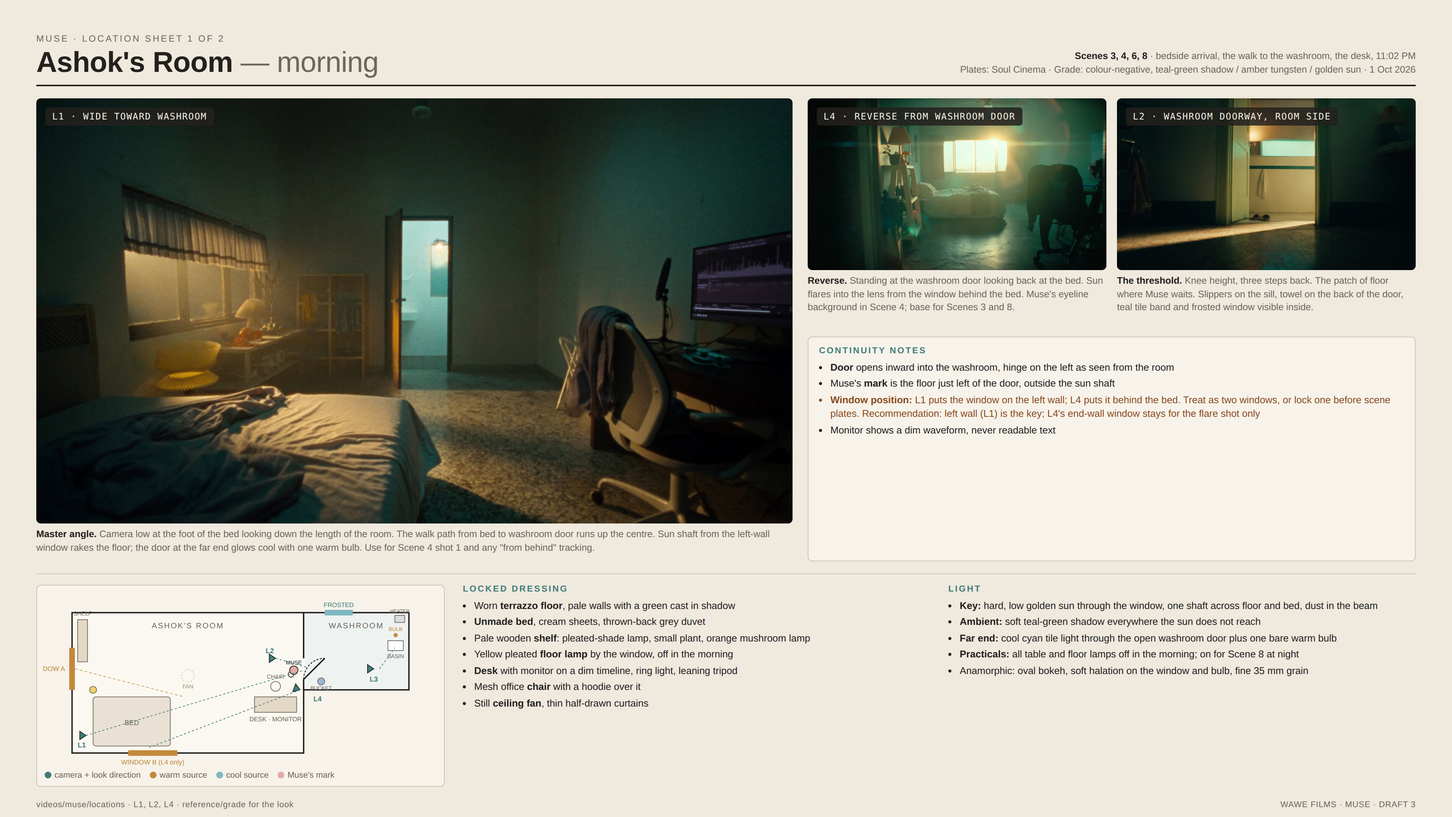
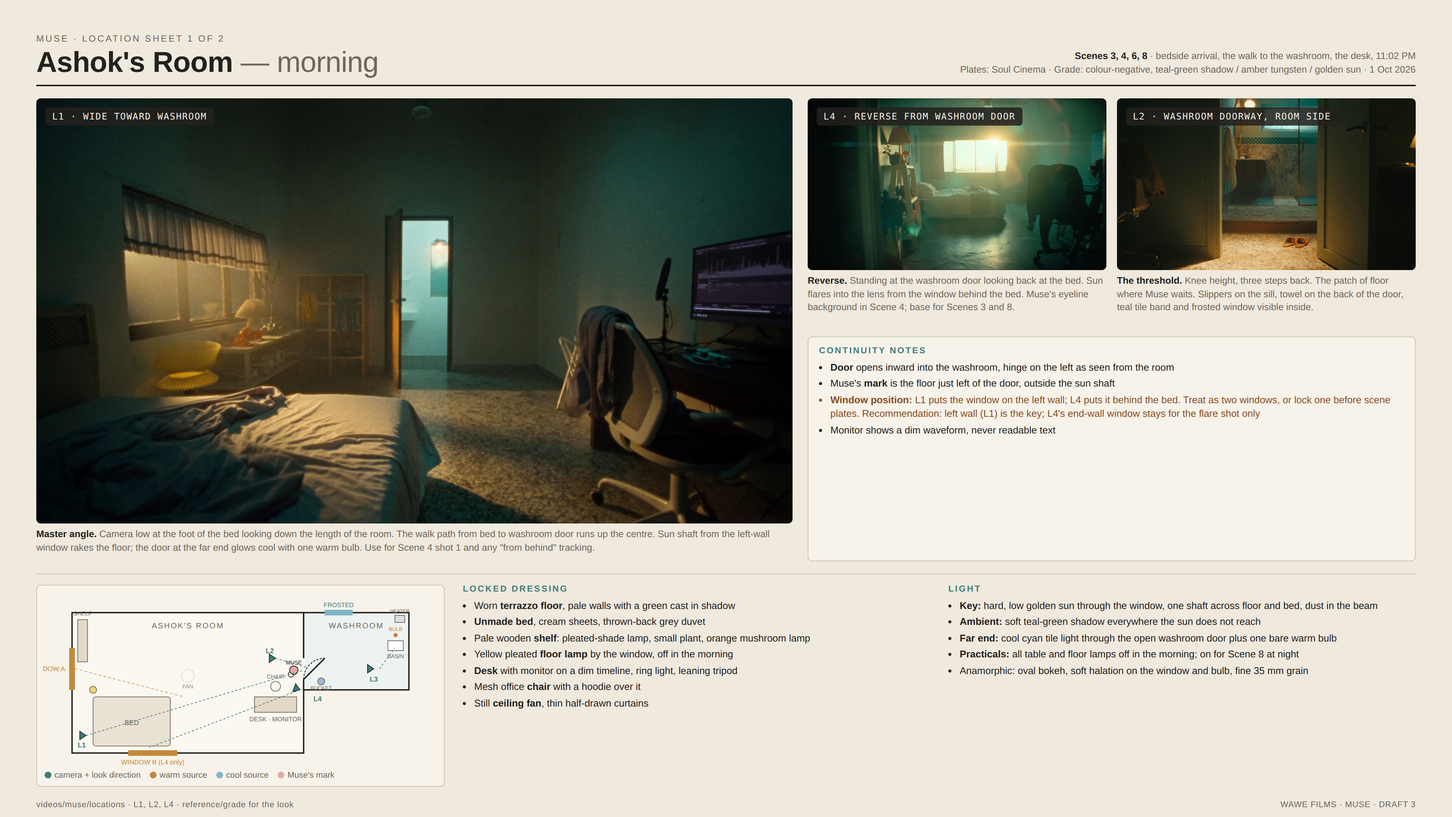
Muse: washroom redesigned to match the room (walnut vanity, brass, zellige, reeded glass), plates, sheets, close-up and prompt updated
Claude-Session: https://claude.ai/code/session_01Sxvpt69HrvMq7m12wGfSYe

Changed region(s): [[0.75, 0.0931, 0.9688, 0.3412], [0.9375, 0.1241, 0.9688, 0.1551]]

diff --git a/videos/muse/locations/sheets/src/sheet.html b/videos/muse/locations/sheets/src/sheet.html
@@ -199,27 +199,27 @@
     </div>
     <div class="meta">
       <b>Scene 4</b> · brushing, the doorway, "Already did."<br>
-      Plates: Soul Cinema · Character beat: Soul 2.0 · Grade: colour-negative, cyan window / amber bulb · 1 Oct 2026
+      Plates: Soul Cinema · Character beat: Soul 2.0 · Grade: colour-negative, cyan window / amber globe sconce · 1 Oct 2026
     </div>
   </header>
 
   <div class="grid">
     <div class="hero">
       <img src="img/L3-washroom-interior-sink-mirror.jpg" alt="">
-      <div class="tag">L3 · INTERIOR, BASIN AND MIRROR</div>
-      <div class="cap"><b>Master angle.</b> Camera just inside the door at chest height, square to the basin wall. One bare warm bulb above the mirror against flat cyan daylight from the frosted window top-left. Teal tile band at waist height, water heater top-right, bucket bottom-right, toothbrush cup on the ledge. Ashok's "exposure doesn't pay rent" close-up lives here.</div>
+      <div class="tag">L3 · INTERIOR, VANITY AND MIRROR</div>
+      <div class="cap"><b>Master angle.</b> Camera just inside the door at chest height, square to the vanity wall. One warm globe sconce above the mirror against flat cyan daylight from the frosted window top-left. Round brass mirror, opal globe sconce, floating walnut vanity with vessel basin and brass tap, glossy teal zellige band, reeded partition right.</div>
     </div>
     <div class="side">
       <div class="thumbs">
       <div class="thumb">
         <img src="img/A3.jpg" alt="">
         <div class="tag">A3 · DOORWAY BEAT, AS LIT</div>
-        <div class="cap"><b>Lighting proof with the character.</b> Ashok leaning out of the door: warm sun on the room side of his face, cool tile behind, the bulb catching his hair. This is the balance to hold for every washroom shot with a person in it.</div>
+        <div class="cap"><b>Lighting proof with the character.</b> Ashok leaning out of the door: warm sun on the room side of his face, cool stone behind, the sconce catching his hair. This is the balance to hold for every washroom shot with a person in it.</div>
       </div>
       <div class="thumb">
         <img src="img/L2-washroom-doorway-from-room.jpg" alt="">
         <div class="tag">L2 · THRESHOLD FROM THE ROOM</div>
-        <div class="cap"><b>Entrance.</b> Same door, same bulb, same frosted window, seen low from Muse's height. Slippers on the sill and a towel on the back of the door tie the two spaces together.</div>
+        <div class="cap"><b>Entrance.</b> Same door, same sconce, same frosted window, seen low from Muse's height. The terrazzo runs through the doorway without a break, which is what makes the two rooms one apartment.</div>
       </div>
       </div>
       <div class="block">
@@ -227,7 +227,7 @@
       <ul>
         <li>Door hinge is on the left from the room, so Ashok <b>leans out to his right</b>, toward Muse's mark</li>
         <li>Muse never enters the washroom; her close-ups are shot from the room side at beret height</li>
-        <li>Mirror reflects the opposite tile wall and window only, no camera</li>
+        <li>Mirror reflects the opposite stone wall and window only, no camera</li>
         <li class="warn">Scale: the room is small. A 90 cm Muse on the threshold fills the lower third of a knee-high frame; keep her out of L3's frame entirely</li>
       </ul>
       </div>
@@ -238,7 +238,7 @@
     <div class="plan">
       <svg viewBox="0 0 560 250" xmlns="http://www.w3.org/2000/svg" font-family="Helvetica Neue, Arial, sans-serif">
         <rect x="150" y="30" width="260" height="190" fill="#eef3f2" stroke="#23211d" stroke-width="2"/>
-        <text x="280" y="55" font-size="11" text-anchor="middle" fill="#6f665b" letter-spacing="1.5">WASHROOM · ~1.8 × 2.4 m</text>
+        <text x="230" y="55" font-size="11" text-anchor="middle" fill="#6f665b" letter-spacing="1.5">WASHROOM</text>
         <!-- door on left wall (to room) -->
         <line x1="150" y1="130" x2="150" y2="180" stroke="#eef3f2" stroke-width="3"/>
         <path d="M150 180 A50 50 0 0 1 200 130" fill="none" stroke="#23211d" stroke-width="1.2" stroke-dasharray="3 2"/>
@@ -247,24 +247,26 @@
         <!-- frosted window top wall left -->
         <rect x="180" y="26" width="60" height="8" fill="#7fb7c4"/>
         <text x="210" y="22" font-size="9" text-anchor="middle" fill="#3f7c78">FROSTED WINDOW · cyan</text>
-        <!-- basin + mirror on far (right) wall -->
-        <rect x="396" y="110" width="12" height="36" fill="#fff" stroke="#6f665b"/>
-        <text x="420" y="132" font-size="9" fill="#6f665b">BASIN</text>
-        <rect x="406" y="104" width="4" height="48" fill="#9fb3b0"/>
-        <text x="420" y="118" font-size="8" fill="#6f665b">MIRROR</text>
+        <!-- vanity + mirror on far (right) wall -->
+        <rect x="392" y="104" width="16" height="48" fill="#8b5a2b" stroke="#6f665b"/>
+        <text x="420" y="132" font-size="9" fill="#6f665b">WALNUT VANITY</text>
+        <ellipse cx="400" cy="128" rx="5" ry="9" fill="#fff" stroke="#6f665b"/>
         <circle cx="402" cy="96" r="4" fill="#c2893a"/>
-        <text x="420" y="100" font-size="8.5" fill="#c2893a">BULB above mirror</text>
-        <!-- heater -->
-        <rect x="388" y="36" width="18" height="14" fill="#ddd" stroke="#6f665b"/>
-        <text x="420" y="47" font-size="8.5" fill="#6f665b">WATER HEATER · red LED</text>
-        <!-- bucket -->
-        <circle cx="385" cy="195" r="9" fill="#9bb6d8" stroke="#6f665b"/>
-        <text x="385" y="214" font-size="8.5" text-anchor="middle" fill="#6f665b">BUCKET + MUG</text>
+        <text x="420" y="100" font-size="8.5" fill="#c2893a">GLOBE SCONCE over round mirror</text>
+        <!-- reeded partition along top wall right -->
+        <line x1="300" y1="34" x2="300" y2="110" stroke="#9fb3b0" stroke-width="3" stroke-dasharray="2 2"/>
+        <text x="306" y="60" font-size="8.5" fill="#6f665b">REEDED GLASS</text>
+        <text x="306" y="71" font-size="8.5" fill="#6f665b">PARTITION, brass frame</text>
+        <rect x="310" y="36" width="96" height="60" fill="#e4eeee" stroke="none" opacity=".6"/>
+        <text x="358" y="88" font-size="8" text-anchor="middle" fill="#9a9084">BATHING AREA (hidden)</text>
+        <!-- teak stool -->
+        <rect x="372" y="178" width="22" height="14" fill="#c9a37a" stroke="#6f665b"/>
+        <text x="383" y="206" font-size="8.5" text-anchor="middle" fill="#6f665b">TEAK STOOL · towels</text>
         <!-- towel hook -->
         <rect x="164" y="60" width="4" height="22" fill="#e9e1d3" stroke="#6f665b"/>
         <text x="172" y="70" font-size="8" fill="#6f665b">TOWEL HOOK</text>
         <!-- tile band note -->
-        <text x="280" y="236" font-size="9" text-anchor="middle" fill="#3f7c78">TEAL TILE BAND AT WAIST HEIGHT ON ALL FOUR WALLS</text>
+        <text x="280" y="236" font-size="9" text-anchor="middle" fill="#3f7c78">TRAVERTINE WALLS · GLOSSY TEAL ZELLIGE BAND AT WAIST HEIGHT · TERRAZZO FLOOR CONTINUES FROM THE ROOM</text>
         <!-- slippers outside -->
         <rect x="126" y="186" width="14" height="8" rx="2" fill="#c9a37a" stroke="#6f665b"/>
         <text x="110" y="205" font-size="8" fill="#6f665b">SLIPPERS</text>
@@ -290,12 +292,13 @@
     <div class="block">
       <h3>Locked dressing</h3>
       <ul>
-        <li>Off-white glazed <b>tiles</b>, slightly uneven, one <b>teal-green band</b> at waist height</li>
-        <li>White ceramic <b>basin</b> on a tiled ledge, steel tap, small square <b>mirror</b></li>
-        <li>Plastic <b>cup</b> with two toothbrushes and paste on the ledge</li>
-        <li>Wall-mounted <b>water heater</b>, red indicator on, top-right corner</li>
-        <li>Blue plastic <b>bucket</b> and mug on the floor, right</li>
-        <li>Towel on a hook behind the door, rubber <b>slippers</b> on the sill outside</li>
+        <li>Same worn <b>terrazzo floor</b> as the room, running through the door</li>
+        <li>Warm travertine-toned <b>stone walls</b>, one glossy teal-green <b>zellige band</b> at waist height</li>
+        <li>Floating <b>walnut vanity</b>, white oval vessel basin, wall-mounted brushed <b>brass tap</b></li>
+        <li>Round <b>brass mirror</b> with one opal <b>globe sconce</b> directly above</li>
+        <li>Ceramic cup with two toothbrushes and paste, small potted plant on the vanity</li>
+        <li>Floor-to-ceiling <b>reeded glass partition</b>, slim brass frame, hides the bathing area</li>
+        <li>Teak slatted <b>stool</b> with folded cream towels, cream towel on a brass hook, tan leather <b>slippers</b> on the sill</li>
         <li>Ashok's brush: white body, sky-blue grip, pale blue bristles</li>
       </ul>
     </div>
@@ -303,15 +306,15 @@
     <div class="block">
       <h3>Light</h3>
       <ul>
-        <li><b>Key:</b> one bare warm tungsten bulb above the mirror, amber, soft halation</li>
-        <li><b>Fill:</b> flat cyan daylight through the frosted window, top-left</li>
-        <li><b>From the room:</b> golden sun spills across the threshold and the door edge; it never reaches the basin</li>
-        <li>Faces at the mirror split warm (bulb side) against cool (window side)</li>
-        <li>Floor holds a thin sheen; no steam, early and quiet</li>
+        <li><b>Key:</b> one warm opal globe sconce above the mirror, amber, soft halation</li>
+        <li><b>Fill:</b> flat cyan daylight through the frosted reeded window, top-left</li>
+        <li><b>From the room:</b> golden sun spills across the threshold and the door edge; it never reaches the vanity</li>
+        <li>Faces at the mirror split warm (sconce side) against cool (window side)</li>
+        <li>Stone and brass hold soft highlights, never specular; early, quiet, no steam</li>
       </ul>
     </div>
   </div>
-  <footer><span>videos/muse/locations · L2, L3 · character-sheets/ashok/A3 for the lit beat</span><span>WAWE FILMS · MUSE · DRAFT 3</span></footer>
+  <footer><span>videos/muse/locations · L2, L3 (vanity) · character-sheets/ashok/A3 for the lit beat</span><span>WAWE FILMS · MUSE · DRAFT 3</span></footer>
 </section>
 
 </body>

diff --git a/videos/muse/scenes/04-washroom/seedance-prompt.md b/videos/muse/scenes/04-washroom/seedance-prompt.md
@@ -15,7 +15,7 @@ Written with the Seedance 2.0 prompt grammar (the @ reference system). Seedance 
 | @Image5 | `character-sheets/S4-scale.png` | Scale lock: top of Muse's beret at Ashok's belt line |
 | @Image6 | `locations/L1-room-wide-toward-washroom.png` | Scene for shot 1, bed to washroom door |
 | @Image7 | `locations/L2-washroom-doorway-from-room.png` | Scene for the Muse close-ups beside the door |
-| @Image8 | `locations/L3-washroom-interior-sink-mirror.png` | Scene for Ashok's close-up at the mirror |
+| @Image8 | `locations/L3-washroom-interior-vanity-mirror.png` | Scene for Ashok's close-up at the vanity mirror |
 | @Audio1 | optional, Muse's four lines rendered in the chosen ElevenLabs voice | Voice and timing reference |
 | @Audio2 | optional, 5–10 s of Ashok's real voice | Voice reference for his one line |
 
@@ -28,14 +28,14 @@ Settings: 15 s, 16:9 (or 2.39:1 if offered), highest resolution available.
 ```
 Live-action short film, one continuous scene cut into five shots, 15 seconds. @Image1 is Ashok: a lean young South Indian man with messy bedhead black hair and a thin moustache, in a slept-in olive-grey t-shirt, navy check pyjama trousers, bare feet, a cream face towel over his left shoulder, a blue toothbrush in his hand. @Image3 is Muse: a cream plush creature with a peach face, two black dot eyes, pink cheeks, a blush-pink beret, round gold spectacles, a teal ribbon bow at the neck, a lanyard with a blank white card, a slim black tablet under one stub arm. Muse's expressions reference @Image4. Scale references @Image5: the top of Muse's beret reaches Ashok's belt, she is a real physical object in the room, her fur catches the same light he does, her feet touch the floor and cast a contact shadow. Ashok never looks at camera. Muse walks with a quick short-stepped waddle, her whole body rocking slightly, the ribbon tails and the lanyard swinging.
 
-0–4s, WIDE FROM BEHIND, scene references @Image6: the camera is low, at Muse's beret height, at the foot of the unmade bed, tracking forward slowly behind the two of them as Ashok shuffles barefoot from the bed toward the half-open washroom door at the far end of the room, scratching the back of his head, and Muse hurries along a step behind him and to his left, tablet under her arm, talking up at him without pause. A hard shaft of golden morning sun from the window camera-left rakes across the floor, dust in the beam, the rest of the room in soft teal-green shadow, the washroom door ahead glowing with cool white tile light and one warm bulb.
+0–4s, WIDE FROM BEHIND, scene references @Image6: the camera is low, at Muse's beret height, at the foot of the unmade bed, tracking forward slowly behind the two of them as Ashok shuffles barefoot from the bed toward the half-open washroom door at the far end of the room, scratching the back of his head, and Muse hurries along a step behind him and to his left, tablet under her arm, talking up at him without pause. A hard shaft of golden morning sun from the window camera-left rakes across the floor, dust in the beam, the rest of the room in soft teal-green shadow, the washroom door ahead glowing with cool cyan light and one warm globe sconce.
 Muse (bright, quick, cheerful, a friend reading out good news while walking, no pause for breath): "Last night's reel was the best one this month. I handled forty emails, three need your reply."
 Ashok disappears through the door. Muse stops on the threshold.
 
-4–8s, CLOSE UP ON MUSE, scene references @Image7: the camera is at Muse's eye level, just inside the bedroom beside the door frame, framing her head and shoulders with the warm sunlit door frame on one side and the cool tiled washroom glow behind her. She stands exactly where she stopped, looking up and sideways into the washroom at Ashok off-screen, the tablet now held in front of her with both stub arms as if reading from it, spectacles catching a small warm glint. From inside the washroom, the sound of a tap running and a toothbrush starting.
+4–8s, CLOSE UP ON MUSE, scene references @Image7: the camera is at Muse's eye level, just inside the bedroom beside the door frame, framing her head and shoulders with the warm sunlit door frame on one side and the cool stone-and-teal washroom glow behind her. She stands exactly where she stopped, looking up and sideways into the washroom at Ashok off-screen, the tablet now held in front of her with both stub arms as if reading from it, spectacles catching a small warm glint. From inside the washroom, the sound of a tap running and a toothbrush starting.
 Muse (same bright pace, perfectly organised, a little proud): "Only three of the eleven things on last night's to-do list matter. The rest, I can handle. One brand wants you for exposure."
 
-8–10s, CLOSE UP ON ASHOK, scene references @Image8: the camera is inside the washroom at the mirror's height, a tight close-up of Ashok's face in profile-to-three-quarter as he brushes his teeth at the basin, the bare warm bulb above the mirror lighting one side of his face amber, the frosted window throwing flat cyan light on the other side, toothpaste foam at the corner of his mouth. He speaks around the toothbrush without stopping brushing, dry and flat.
+8–10s, CLOSE UP ON ASHOK, scene references @Image8: the camera is inside the washroom at the mirror's height, a tight close-up of Ashok's face in profile-to-three-quarter as he brushes his teeth at the walnut vanity, the warm opal globe sconce above the round brass mirror lighting one side of his face amber, the frosted reeded window throwing flat cyan light on the other side, the glossy teal zellige band behind him, toothpaste foam at the corner of his mouth. He speaks around the toothbrush without stopping brushing, dry and flat.
 Ashok (muffled by the toothbrush, deadpan): "Tell them exposure doesn't pay rent."
 
 10–12s, CLOSE UP ON MUSE, same framing and position as 4–8s: she does not look up from the tablet. One beat of silence, then, without any change in her face:
@@ -43,9 +43,9 @@ Muse (instant, flat, no emphasis, the smallest shrug of her stub arms): "Already
 
 12–15s, MEDIUM CLOSE UP ON ASHOK, framing and expression reference @Image2: the camera is back in the bedroom at Ashok's eye level, looking at the washroom doorway. The toothbrush sound stops. Ashok leans sideways out of the doorway, one hand on the frame, toothbrush clamped in the corner of his mouth, foam on his lip, towel still over his shoulder, and stares down at Muse just below the bottom of frame with slow widening disbelief, brow lifting, then a single small blink. Hold on his face. Muse stays out of this shot except the very top of her blush beret entering the bottom edge of frame on the last beat.
 
-Camera: slow, controlled, no handheld shake, no zooms, straight cuts between the five shots, the first shot a smooth low tracking move, the rest locked off. Lens look: vintage anamorphic, shallow depth of field, oval bokeh on the bulb and window, soft frame edges, light halation on the bulb and the sunlit window.
+Camera: slow, controlled, no handheld shake, no zooms, straight cuts between the five shots, the first shot a smooth low tracking move, the rest locked off. Lens look: vintage anamorphic, shallow depth of field, oval bokeh on the sconce and window, soft frame edges, light halation on the sconce and the sunlit window.
 
-Audio: all diegetic. Bare feet on terrazzo, Muse's small quick footsteps, the ribbon and lanyard rustling, the tap running, the toothbrush scrubbing, the sound dropping when he stops brushing in the last shot. Room tone of a quiet Indian apartment morning, a distant crow, a far-off scooter horn once. No music. Muse's voice: a light, airy, bubbly young-woman voice with a neutral Indian-English accent, quick and friendly, like a best friend who happens to remember everything, never a customer-service assistant. If @Audio1 is provided, Muse's voice, pitch and timing reference @Audio1. Ashok's voice is low, sleepy and muffled by the toothbrush. If @Audio2 is provided, Ashok's voice references @Audio2.
+Audio: all diegetic. Bare feet on terrazzo, the same floor running into the washroom, Muse's small quick footsteps, the ribbon and lanyard rustling, the tap running, the toothbrush scrubbing, the sound dropping when he stops brushing in the last shot. Room tone of a quiet Indian apartment morning, a distant crow, a far-off scooter horn once. No music. Muse's voice: a light, airy, bubbly young-woman voice with a neutral Indian-English accent, quick and friendly, like a best friend who happens to remember everything, never a customer-service assistant. If @Audio1 is provided, Muse's voice, pitch and timing reference @Audio1. Ashok's voice is low, sleepy and muffled by the toothbrush. If @Audio2 is provided, Ashok's voice references @Audio2.
 
 Color and light: a colour-negative film look with teal-green shadows and cyan window daylight against warm amber tungsten and low golden morning sun, warm skin tones preserved, blacks lifted and open, highlights rolling off softly, fine 35mm grain across every shot, muted greens, ochres and creams in the room. Photorealistic, cinematic, consistent character identity for Ashok across every shot, consistent plush Muse across every shot, no text, no captions, no subtitles, no watermark.
 ```
@@ -59,14 +59,14 @@ Use this if the single 15 s clip rushes the dialogue or drifts on identity. Each
 ```
 Live-action short film, two shots, 8 seconds. @Image1 is Ashok: a lean young South Indian man with messy bedhead black hair and a thin moustache, slept-in olive-grey t-shirt, navy check pyjama trousers, bare feet, a cream face towel over his left shoulder, a blue toothbrush in his hand. @Image3 is Muse: a cream plush creature with a peach face, two black dot eyes, pink cheeks, a blush-pink beret, round gold spectacles, a teal ribbon bow, a lanyard with a blank white card, a slim black tablet under one stub arm. Expressions reference @Image4. Scale references @Image5: the top of Muse's beret reaches Ashok's belt, her feet on the floor with a real contact shadow, her fur lit by the same light as him. Muse walks with a quick short-stepped waddle, her body rocking, ribbon and lanyard swinging.
 
-0–4s, WIDE FROM BEHIND, scene references @Image6: low camera at Muse's beret height at the foot of the unmade bed, tracking forward slowly behind both of them as Ashok shuffles barefoot toward the half-open washroom door at the far end, scratching the back of his head, Muse hurrying a step behind and to his left, talking up at him. A hard shaft of golden morning sun from the window camera-left rakes the floor, dust in the beam, the room in soft teal-green shadow, the washroom door glowing with cool tile light and one warm bulb.
+0–4s, WIDE FROM BEHIND, scene references @Image6: low camera at Muse's beret height at the foot of the unmade bed, tracking forward slowly behind both of them as Ashok shuffles barefoot toward the half-open washroom door at the far end, scratching the back of his head, Muse hurrying a step behind and to his left, talking up at him. A hard shaft of golden morning sun from the window camera-left rakes the floor, dust in the beam, the room in soft teal-green shadow, the washroom door glowing with cool cyan light and one warm globe sconce.
 Muse (bright, quick, cheerful, no pause for breath): "Last night's reel was the best one this month. I handled forty emails, three need your reply."
 Ashok goes through the door. Muse stops on the threshold.
 
-4–8s, CLOSE UP ON MUSE, scene references @Image7: camera at Muse's eye level beside the door frame, head and shoulders, warm sunlit door frame on one side, cool tiled washroom glow behind her. She looks up and sideways into the washroom at Ashok off-screen, tablet held in front of her with both stub arms, a small warm glint on her spectacles. From inside, a tap runs and a toothbrush starts.
+4–8s, CLOSE UP ON MUSE, scene references @Image7: camera at Muse's eye level beside the door frame, head and shoulders, warm sunlit door frame on one side, cool stone-and-teal washroom glow behind her. She looks up and sideways into the washroom at Ashok off-screen, tablet held in front of her with both stub arms, a small warm glint on her spectacles. From inside, a tap runs and a toothbrush starts.
 Muse (same bright pace, organised, a little proud): "Only three of the eleven things on last night's to-do list matter. The rest, I can handle. One brand wants you for exposure."
 
-Camera: smooth low tracking move in the first shot, locked off in the second, straight cut, no zooms, vintage anamorphic look, shallow depth of field, oval bokeh, soft halation on the bulb and window. Audio: all diegetic, bare feet on terrazzo, Muse's small quick steps, ribbon rustle, the tap and toothbrush from inside, quiet Indian apartment morning room tone, a distant crow, no music. Muse's voice: light, airy, bubbly young-woman voice, neutral Indian-English, quick and friendly, a best friend who remembers everything, never an assistant voice. If @Audio1 is provided, Muse's voice and timing reference @Audio1. Colour-negative film look, teal-green shadows and cyan window light against warm amber tungsten and golden sun, warm skin preserved, lifted blacks, soft highlight roll-off, fine 35mm grain. Photorealistic, consistent identities, no text, no captions, no watermark.
+Camera: smooth low tracking move in the first shot, locked off in the second, straight cut, no zooms, vintage anamorphic look, shallow depth of field, oval bokeh, soft halation on the sconce and window. Audio: all diegetic, bare feet on terrazzo, Muse's small quick steps, ribbon rustle, the tap and toothbrush from inside, quiet Indian apartment morning room tone, a distant crow, no music. Muse's voice: light, airy, bubbly young-woman voice, neutral Indian-English, quick and friendly, a best friend who remembers everything, never an assistant voice. If @Audio1 is provided, Muse's voice and timing reference @Audio1. Colour-negative film look, teal-green shadows and cyan window light against warm amber tungsten and golden sun, warm skin preserved, lifted blacks, soft highlight roll-off, fine 35mm grain. Photorealistic, consistent identities, no text, no captions, no watermark.
 ```
 
 ### Clip B2, 7 s (shots 3, 4 and 5)
@@ -74,7 +74,7 @@ Camera: smooth low tracking move in the first shot, locked off in the second, st
 ```
 Live-action short film, three shots, 7 seconds. @Image1 and @Image2 are Ashok: a lean young South Indian man with messy bedhead black hair and a thin moustache, slept-in olive-grey t-shirt, cream face towel over his left shoulder, a blue toothbrush. @Image3 is Muse: a cream plush creature with a peach face, two black dot eyes, pink cheeks, a blush-pink beret, round gold spectacles, a teal ribbon bow, a lanyard with a blank white card, a slim black tablet. Expressions reference @Image4. Scale references @Image5.
 
-0–2s, CLOSE UP ON ASHOK, scene references @Image8: inside the washroom at mirror height, tight close-up of Ashok brushing his teeth at the basin in three-quarter profile, the bare warm bulb above the mirror lighting one side of his face amber, the frosted window throwing flat cyan light on the other, foam at the corner of his mouth. He speaks around the toothbrush without stopping brushing.
+0–2s, CLOSE UP ON ASHOK, scene references @Image8: inside the washroom at mirror height, tight close-up of Ashok brushing his teeth at the walnut vanity in three-quarter profile, the warm opal globe sconce above the round brass mirror lighting one side of his face amber, the frosted reeded window throwing flat cyan light on the other, the glossy teal zellige band behind him, foam at the corner of his mouth. He speaks around the toothbrush without stopping brushing.
 Ashok (muffled, deadpan): "Tell them exposure doesn't pay rent."
 
 2–4s, CLOSE UP ON MUSE, scene references @Image7: camera at Muse's eye level beside the bedroom side of the door frame, head and shoulders, she stands on the threshold reading from the tablet held in both stub arms and does not look up. One beat of silence, then with no change in her face:
@@ -82,7 +82,7 @@ Muse (instant, flat, no emphasis, the smallest shrug of her stub arms): "Already
 
 4–7s, MEDIUM CLOSE UP ON ASHOK, framing and expression reference @Image2: camera in the bedroom at Ashok's eye level looking at the washroom doorway. The toothbrush sound stops. Ashok leans sideways out of the doorway, one hand on the frame, toothbrush clamped in the corner of his mouth, foam on his lip, towel on his shoulder, and stares down at Muse just below the bottom of frame with slow widening disbelief, brow lifting, one small blink. Hold. Only the top of Muse's blush beret enters the bottom edge of frame on the last beat.
 
-Camera: all three shots locked off, straight cuts, no zooms, vintage anamorphic look, shallow depth of field, oval bokeh, soft halation on the bulb and window. Audio: all diegetic, the toothbrush scrubbing and tap, then silence when he stops, quiet apartment room tone, no music. Muse's voice: light, airy, bubbly young-woman voice, neutral Indian-English, the "Already did." delivered flat and fast like a shrug. If @Audio1 is provided, Muse's voice references @Audio1. Ashok's voice low, sleepy, muffled by the toothbrush; if @Audio2 is provided, reference @Audio2. Colour-negative film look, teal-green shadows and cyan window light against warm amber tungsten and golden sun, warm skin preserved, lifted blacks, soft highlight roll-off, fine 35mm grain. Photorealistic, consistent identities, no text, no captions, no watermark.
+Camera: all three shots locked off, straight cuts, no zooms, vintage anamorphic look, shallow depth of field, oval bokeh, soft halation on the sconce and window. Audio: all diegetic, the toothbrush scrubbing and tap, then silence when he stops, quiet apartment room tone, no music. Muse's voice: light, airy, bubbly young-woman voice, neutral Indian-English, the "Already did." delivered flat and fast like a shrug. If @Audio1 is provided, Muse's voice references @Audio1. Ashok's voice low, sleepy, muffled by the toothbrush; if @Audio2 is provided, reference @Audio2. Colour-negative film look, teal-green shadows and cyan window light against warm amber tungsten and golden sun, warm skin preserved, lifted blacks, soft highlight roll-off, fine 35mm grain. Photorealistic, consistent identities, no text, no captions, no watermark.
 ```
 
 ## Notes before you run it

diff --git a/videos/muse/BRIEF.md b/videos/muse/BRIEF.md
@@ -143,23 +143,23 @@ Soul 2.0 note: its single image slot is a subject reference, not a prop referenc
 |---|---|
 | `A1-bathroom-fullbody.png` | Full-body base on mid-gray seamless |
 | `A2-bathroom-6panel.png` | Six-panel sheet: front, both profiles, back, face, toothbrush detail |
-| `A3-doorway-toothbrush-cu.png` | The script's last beat in the film grade: leaning out of the washroom door, toothbrush in mouth, disbelief |
+| `A3-doorway-toothbrush-cu.png` | The script's last beat in the film grade: leaning out of the washroom door, toothbrush head in his mouth, the redesigned washroom behind him |
 | `superseded/` | Earlier takes: eight-panel sheet with sandals, close-ups with a printed tee or the brush head outside the mouth, and the generic blue brush before Ashok supplied the real one |
 
 ## Locations (`locations/`)
 
-Empty plates rendered with Soul Cinema, 16:9, in the film grade. Same room in every plate: terrazzo floor, window camera-left of the bed, pale wooden shelf with a pleated lamp, a plant and an orange mushroom lamp, desk with monitor, ring light and tripod, mesh chair with a hoodie, ceiling fan, washroom door at the far end with off-white tile, a teal-green tile band, a frosted window and one bare warm bulb.
+Empty plates rendered with Soul Cinema, 16:9, in the film grade. Same apartment in every plate. Room: terrazzo floor, window camera-left of the bed, pale wooden shelf with a pleated lamp, a plant and an orange mushroom lamp, desk with monitor, ring light and tripod, mesh chair with a hoodie, ceiling fan. Washroom, redesigned on 1 Oct to match the room: the same terrazzo running through the door, warm travertine-toned stone walls, one glossy teal-green zellige band at waist height, a floating walnut vanity with a vessel basin and brass tap, a round brass mirror with one opal globe sconce above it, a frosted reeded window for cyan fill, a reeded-glass partition with a brass frame hiding the bathing area, a teak stool with towels, tan leather slippers on the sill. The first washroom (bare bulb, square mirror, water heater, bucket) read as a different, older building and is archived in `locations/superseded-old-washroom/`.
 
 | File | Angle | Used for |
 |---|---|---|
 | `L1-room-wide-toward-washroom.png` | From the foot of the bed toward the washroom door | Scene 4 shot 1, the walk from behind |
-| `L2-washroom-doorway-from-room.png` | Low, three steps back from the door, slippers on the threshold | Muse's close-ups beside the door |
-| `L3-washroom-interior-sink-mirror.png` | Inside, facing basin and mirror, bulb above, water heater, bucket | Ashok's close-up brushing |
+| `L2-washroom-doorway-from-room.png` | Low, three steps back from the door, slippers on the threshold, terrazzo continuous into the washroom | Muse's close-ups beside the door |
+| `L3-washroom-interior-vanity-mirror.png` | Inside, facing the walnut vanity and round brass mirror, globe sconce above, reeded partition right | Ashok's close-up brushing |
 | `L4-room-reverse-from-washroom.png` | From the washroom door back toward the bed and window, sun flaring | Reverse angles, Muse's eyeline, scene 3 and scene 8 backgrounds |
 
 Location sheets (two 4K pages, built from these plates, not new renders): `locations/sheets/LS1-ashoks-room.png` and `locations/sheets/LS2-washroom.png`. Each page: hero plate, two secondary angles, a top-down plan with camera positions and light sources, locked dressing, light, continuity notes. Source HTML and the render script are in `locations/sheets/src/` (render with `node render.mjs <outdir>`).
 
-Seedream 5.0 Pro six-angle sheets, generated from the plates as references: `locations/sheets/SD1-ashoks-room-6angles.png` (wide, reverse, doorway, desk corner, shelf corner, top-down plan) and `locations/sheets/SD2-washroom-6angles.png` (basin, looking out the door, threshold, heater corner, floor and bucket, top-down plan). Use the composed LS sheets for notes and the SD sheets for angles.
+Seedream 5.0 Pro six-angle sheets, generated from the plates as references: `locations/sheets/SD1-ashoks-room-6angles.png` (wide, reverse, doorway, desk corner, shelf corner, top-down plan) and `locations/sheets/SD2-washroom-6angles.png` (vanity and mirror, looking out the door, threshold, vanity corner, reeded partition with stool, top-down plan). Use the composed LS sheets for notes and the SD sheets for angles.
 
 Open continuity point from the sheets: L1 puts the window on the left wall, L4 puts one behind the bed. Treat as two windows or lock one before scene plates. Recommendation: left wall is the key, the end-wall window stays for the flare shot only.
 
